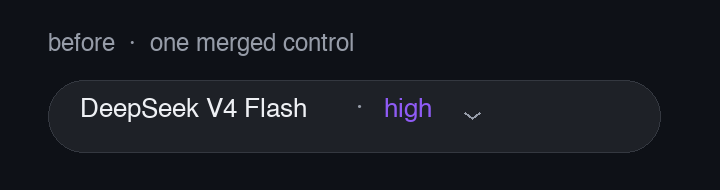
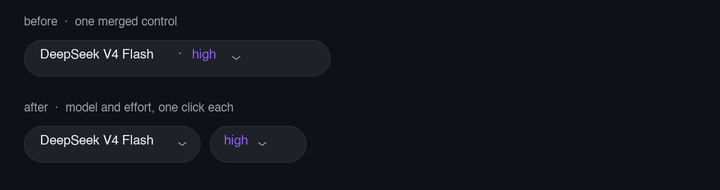
fix(demo): render the before/after still at 2x before downscaling
The still reused the S() coordinate helper but was created at 1x, so the
'after' row landed outside the canvas.

diff --git a/scripts/make-demo.py b/scripts/make-demo.py
@@ -349,7 +349,7 @@ def main() -> None:
     )
     print(f"wrote {target} {target.stat().st_size / 1024:.0f} KB")
 
-    still = Image.new("RGB", (W, 190), CX)
+    still = Image.new("RGB", (S(W), S(190)), CX)
     draw = ImageDraw.Draw(still)
     draw.text((S(24), S(16)), "before  ·  one merged control", font=font(12), fill=MUTED)
     rounded(draw, box(24, 40, 330, 76), S(18), fill=CARD, outline=BORDER)
@@ -366,6 +366,7 @@ def main() -> None:
     draw.text((S(224), S(134)), "high", font=font(13), fill=color_at(0.66))
     chevron(draw, 262, 142, MUTED)
 
+    still = still.resize((W, 190), Image.LANCZOS)
     out = DOCS / "before-after.png"
     still.save(out, optimize=True)
     print(f"wrote {out} {out.stat().st_size / 1024:.0f} KB")
